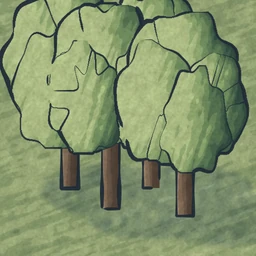
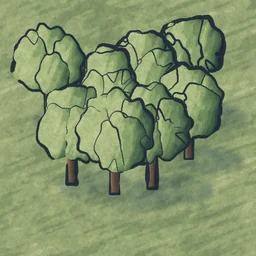
feat(hex-art): горы и пики из Photoshop, пики и вековой лес внутри гекса
Решение владельца 2026-10-22: «используй такие гексы, потом я сделаю
новые свои». Горы, высокие горы и значки «Живой хребет» — картины,
написанные в Photoshop владельца его кистями Kyle по подмалёвку
«гребень и отроги» (tools/HexArt/painted, photoshop_build.py);
остальные плитки — генератор tools/HexArt. Вырезов гор владельца нет:
owner.py удалён, сборка не читает %LOCALAPPDATA%\Map\Assets\originals.

Высокие горы и вековой лес больше не нависают над рядом позади
(Overhang 0, группа «Местность»); нависает только вулкан. Тесты
«высокий тайл нависает» и «перед деревней» переведены на вулкан.
HexArt пересобран (125 файлов), средние цвета обновлены.

diff --git a/tools/HexArt/build.py b/tools/HexArt/build.py
@@ -5,6 +5,10 @@
 Needs numpy, scipy and pillow (a `pip install --target` folder on PYTHONPATH is enough).
 Pictures: <tile>_<variant>.webp (256 x 256 box), <tile>_<variant>_tall.webp (box with 128 px of
 room above, standing parts only), <tile>_ground.webp, icon_<Kind>_<variant>.webp (128 x 128).
+
+The mountains and the peaks were painted in Photoshop with the owner's brushes from the same
+underdrawing (photoshop_build.py, 2026-10-22); their 1024 px paintings are kept in painted/ and
+only reduced here. No picture of the owner's own art is used.
 """
 
 from __future__ import annotations
@@ -14,19 +18,61 @@ import sys
 import time
 
 import numpy as np
-from PIL import Image
+from PIL import Image, ImageFilter
 from scipy import ndimage as ndi
 
-import owner
 import tiles
 from paint import INK, finish, paint
 
 QUALITY = 90
 FEATURE_ZOOM = 1.35
+HERE = os.path.dirname(os.path.abspath(__file__))
+PAINTED = os.path.join(HERE, "painted")
+# Photoshop paintings per tile, and the ones the living-ridge icons are cut from.
+PAINTED_TILES = {"mountains": 3, "peaks": 3}
+ICON_SOURCES = [("peaks", 0), ("mountains", 0), ("peaks", 2), ("mountains", 2)]
 
 
 def save(img: Image.Image, path: str):
     img.save(path, "WEBP", quality=QUALITY, method=6, alpha_quality=100)
+
+
+def painted(name: str, v: int) -> Image.Image | None:
+    path = os.path.join(PAINTED, f"{name}_{v}.webp")
+    return Image.open(path).convert("RGBA") if os.path.exists(path) else None
+
+
+def painted_icon(name: str, v: int) -> Image.Image:
+    """A living-ridge icon cut from a painted mountain: the mountain's own shape (from the same
+    underdrawing at the painting's scale) with its pen line, standing on (128, 244) of the box."""
+    art = painted(name, v)
+    old = tiles.SCALE
+    tiles.SCALE = art.width // tiles.BOX
+    try:
+        cv = tiles.paint_terrain(name, v)
+    finally:
+        tiles.SCALE = old
+    body = ndi.binary_fill_holes(cv.body)
+    body = ndi.binary_dilation(body, iterations=3 * art.width // 512)
+    alpha = Image.fromarray((body * 255).astype(np.uint8)).filter(ImageFilter.GaussianBlur(1.2))
+    art.putalpha(alpha)
+    sprite = art.crop(art.getbbox())
+    w = 236
+    h = round(w * sprite.height / sprite.width)
+    if h > 232:
+        h, w = 232, round(232 * sprite.width / sprite.height)
+    sprite = sprite.resize((w, h), Image.LANCZOS)
+    box = Image.new("RGBA", (256, 256), (0, 0, 0, 0))
+    # a soft cool shadow pool to the south-east of the foot
+    yy, xx = np.mgrid[0:256, 0:256].astype(np.float32)
+    d = ((xx - 150) / (w * 0.55)) ** 2 + ((yy - 242) / 9) ** 2
+    pool = np.clip(1 - d, 0, 1) ** 1.5 * 0.3
+    shadow = np.zeros((256, 256, 4), np.uint8)
+    shadow[..., 0], shadow[..., 1], shadow[..., 2] = 0x41, 0x58, 0x73
+    shadow[..., 3] = (pool * 255).astype(np.uint8)
+    box.alpha_composite(Image.fromarray(shadow, "RGBA"))
+    box.alpha_composite(sprite, (128 - w // 2, 246 - h))
+    return box.resize((128, 128), Image.LANCZOS)
 
 
 def build(out: str, only: set[str]):
@@ -38,41 +84,34 @@ def build(out: str, only: set[str]):
         if only and name not in only:
             continue
         tall = name in tiles.TALL
-        if name in owner.TILE and owner.available():
-            # the owner's own mountains on a painted snow field (owner.py)
-            g = tiles.paint_terrain(name, 0, ground_only=True)
-            ground = paint(g, S)
-            ground[..., 3] = 1.0
-            ground = finish(ground, (tiles.BOX, tiles.BOX))
+        if name in PAINTED_TILES and painted(name, 0) is not None:
             for v in range(count):
-                tile, over = owner.terrain(name, v, ground, tiles.TALL_ROOM)
-                save(tile, os.path.join(out, f"{name}_{v}.webp"))
-                if over is not None:
-                    save(over, os.path.join(out, f"{name}_{v}_tall.webp"))
-                print(f"{name} {v} (owner)", flush=True)
-            save(ground, os.path.join(out, f"{name}_ground.webp"))
-            continue
-        for v in range(count):
-            t0 = time.time()
-            cv = tiles.paint_terrain(name, v, tall=tall)
-            rgba = paint(cv, S)
-            if tall:
-                tile = rgba[room:room + box]
-                standing = (cv.mat > 0) & ~cv.ground
-                # the pen line round a standing shape lies half on the ground: keep the inked
-                # pixels next to it, not the ground itself
-                near = ndi.binary_dilation(standing, iterations=int(3 * S))
-                inked = np.linalg.norm(rgba[..., :3] - INK, axis=-1) < 0.3
-                over = rgba.copy()
-                over[..., 3] *= standing | (near & inked)
-                # keep the hex part of the overlay only above the hex middle (the code draws that part again)
-                save(finish(over, (tiles.BOX, tiles.BOX + tiles.TALL_ROOM)), os.path.join(out, f"{name}_{v}_tall.webp"))
-            else:
-                tile = rgba
-            tile = tile.copy()
-            tile[..., 3] = 1.0
-            save(finish(tile, (tiles.BOX, tiles.BOX)), os.path.join(out, f"{name}_{v}.webp"))
-            print(f"{name} {v} {time.time() - t0:.1f}s", flush=True)
+                art = painted(name, v)
+                art = art.resize((tiles.BOX, tiles.BOX), Image.LANCZOS)
+                art.putalpha(255)
+                save(art, os.path.join(out, f"{name}_{v}.webp"))
+                print(f"{name} {v} (painted in Photoshop)", flush=True)
+        else:
+            for v in range(count):
+                t0 = time.time()
+                cv = tiles.paint_terrain(name, v, tall=tall)
+                rgba = paint(cv, S)
+                if tall:
+                    tile = rgba[room:room + box]
+                    standing = (cv.mat > 0) & ~cv.ground
+                    # the pen line round a standing shape lies half on the ground: keep the inked
+                    # pixels next to it, not the ground itself
+                    near = ndi.binary_dilation(standing, iterations=int(3 * S))
+                    inked = np.linalg.norm(rgba[..., :3] - INK, axis=-1) < 0.3
+                    over = rgba.copy()
+                    over[..., 3] *= standing | (near & inked)
+                    save(finish(over, (tiles.BOX, tiles.BOX + tiles.TALL_ROOM)), os.path.join(out, f"{name}_{v}_tall.webp"))
+                else:
+                    tile = rgba
+                tile = tile.copy()
+                tile[..., 3] = 1.0
+                save(finish(tile, (tiles.BOX, tiles.BOX)), os.path.join(out, f"{name}_{v}.webp"))
+                print(f"{name} {v} {time.time() - t0:.1f}s", flush=True)
         cv = tiles.paint_terrain(name, 0, ground_only=True)
         rgba = paint(cv, S)
         rgba[..., 3] = 1.0
@@ -92,8 +131,9 @@ def build(out: str, only: set[str]):
         if only and ("icon_" + kind) not in only and "icons" not in only:
             continue
         for v in range(tiles.ICON_VARIANTS):
-            if kind == "Mountains" and owner.available():
-                save(owner.icon(v), os.path.join(out, f"icon_{kind}_{v}.webp"))
+            if kind == "Mountains" and painted(*ICON_SOURCES[v]) is not None:
+                save(painted_icon(*ICON_SOURCES[v]), os.path.join(out, f"icon_{kind}_{v}.webp"))
+                print(f"icon {kind} {v} (painted)", flush=True)
                 continue
             cv = tiles.paint_icon(kind, v)
             save(finish(paint(cv, S, pen=5.0), (128, 128)), os.path.join(out, f"icon_{kind}_{v}.webp"))

diff --git a/src/Map.Rendering/HexTileArt.cs b/src/Map.Rendering/HexTileArt.cs
@@ -81,7 +81,7 @@ public static class HexStarterTiles
         new(Prefix + "pines", "Хвойный лес", "Местность", HexPaintTarget.Terrain, 3, new SKColor(0x80, 0x8E, 0x6D)) { Priority = 61, TravelCost = 2, Rotatable = false },
         new(Prefix + "jungle", "Джунгли", "Местность", HexPaintTarget.Terrain, 3, new SKColor(0x63, 0x7A, 0x56)) { Priority = 62, TravelCost = 3, Rotatable = false },
         new(Prefix + "hills", "Холмы", "Местность", HexPaintTarget.Terrain, 3, new SKColor(0xA1, 0xAD, 0x7E)) { Priority = 70, TravelCost = 2, Rotatable = false },
-        new(Prefix + "mountains", "Горы", "Местность", HexPaintTarget.Terrain, 3, new SKColor(0xC4, 0xD1, 0xD9)) { Priority = 80, TravelCost = 3, Rotatable = false },
+        new(Prefix + "mountains", "Горы", "Местность", HexPaintTarget.Terrain, 3, new SKColor(0xCE, 0xDA, 0xE2)) { Priority = 80, TravelCost = 3, Rotatable = false },
         new(Prefix + "desert", "Пустыня", "Местность", HexPaintTarget.Terrain, 3, new SKColor(0xD6, 0xC4, 0x9D)) { Priority = 30, TravelCost = 1.5 },
         new(Prefix + "swamp", "Болото", "Местность", HexPaintTarget.Terrain, 3, new SKColor(0x83, 0x8E, 0x78)) { Priority = 20, TravelCost = 3 },
         new(Prefix + "snow", "Снега", "Местность", HexPaintTarget.Terrain, 3, new SKColor(0xE0, 0xE9, 0xED)) { Priority = 75, TravelCost = 2 },
@@ -96,15 +96,16 @@ public static class HexStarterTiles
         new(Prefix + "shallows", "Мелководье", "Вода", HexPaintTarget.Terrain, 3, new SKColor(0xB5, 0xCD, 0xD3)) { Priority = 10, IsWater = true, TravelCost = 4 },
         new(Prefix + "sea", "Море", "Вода", HexPaintTarget.Terrain, 3, new SKColor(0x89, 0xA4, 0xB8)) { Priority = 0, IsWater = true, TravelCost = null },
         new(Prefix + "lake", "Озеро", "Вода", HexPaintTarget.Terrain, 3, new SKColor(0x9C, 0xB4, 0xC5)) { Priority = 5, IsWater = true, TravelCost = null },
-        new(Prefix + "peaks", "Высокие горы", Tall, HexPaintTarget.Terrain, 3, new SKColor(0x91, 0xA3, 0xB2))
+        // The owner (2026-10-22): peaks and the old forest were too big for a hex map; they now
+        // stay inside their hex like the mountains and the forest (no overhang).
+        new(Prefix + "peaks", "Высокие горы", "Местность", HexPaintTarget.Terrain, 3, new SKColor(0xC7, 0xD4, 0xDC))
         {
-            Priority = 85, TravelCost = 4, Overhang = 0.62, Rotatable = false,
-            Hint = "Высокий тайл: вершины нависают над рядом позади (2.5D).",
+            Priority = 85, TravelCost = 4, Rotatable = false,
+            Hint = "Высокие острые вершины; рисуются внутри своего гекса.",
         },
-        new(Prefix + "old-forest", "Вековой лес", Tall, HexPaintTarget.Terrain, 3, new SKColor(0x7D, 0x8E, 0x67))
+        new(Prefix + "old-forest", "Вековой лес", "Местность", HexPaintTarget.Terrain, 3, new SKColor(0x7D, 0x8F, 0x68))
         {
-            Priority = 63, TravelCost = 2.5, Overhang = 0.42, Rotatable = false,
-            Hint = "Высокий тайл: кроны нависают над рядом позади.",
+            Priority = 63, TravelCost = 2.5, Rotatable = false,
         },
         new(Prefix + "volcano", "Вулкан", Tall, HexPaintTarget.Terrain, 2, new SKColor(0x6D, 0x62, 0x60))
         {

diff --git a/tests/Map.Rendering.Tests/HexWorkshopRenderingTests.cs b/tests/Map.Rendering.Tests/HexWorkshopRenderingTests.cs
@@ -176,10 +176,11 @@ public sealed class HexWorkshopRenderingTests
         var layout = layer.Board.Layout;
         var behind = layout.FromOffset(new HexOffset(1, 0));
         var front = layout.FromOffset(new HexOffset(1, 1));
-        var cells = new Dictionary<HexCoord, HexCell?> { [behind] = HexCell.Of("starter/snow"), [front] = HexCell.Of("starter/peaks") };
+        var cells = new Dictionary<HexCoord, HexCell?> { [behind] = HexCell.Of("starter/snow"), [front] = HexCell.Of("starter/volcano") };
         document = HexPaintCommand.Create("Горы", layer, cells)!.Apply(document);
         using var bitmap = Render(document, 1, null);
-        // The upper part of the snow hex behind is covered by the peaks: grey rock, not snow white.
+        // The upper part of the snow hex behind is covered by the volcano (its cone and smoke), not
+        // snow white. Peaks no longer rise over the row behind (the owner, 2026-10-22); the volcano does.
         var (fx, fy) = layout.Center(front);
         var hits = 0;
         for (var dy = 1.0; dy < 1.5; dy += 0.05)
@@ -326,7 +327,7 @@ public sealed class HexWorkshopRenderingTests
     }
 
     [Fact]
-    public void A_peak_in_front_hides_a_village_in_the_row_behind()
+    public void A_volcano_in_front_hides_a_village_in_the_row_behind()
     {
         static (MapDocument, HexLayer) Board(bool village)
         {
@@ -340,7 +341,7 @@ public sealed class HexWorkshopRenderingTests
                 for (var r = 0; r < 6; r++) cells[layout.FromOffset(new HexOffset(c, r))] = HexCell.Of("starter/grass", 0);
             }
 
-            cells[layout.FromOffset(new HexOffset(2, 3))] = HexCell.Of("starter/peaks", 0);
+            cells[layout.FromOffset(new HexOffset(2, 3))] = HexCell.Of("starter/volcano", 0);
             if (village) cells[layout.FromOffset(new HexOffset(2, 2))] = HexCell.Of("starter/grass", 0).WithFeature("starter/village", 0);
             layer = layer with { Board = layer.Board.With(cells) };
             return (document.WithLayer(layer.Id, _ => layer), layer);
@@ -354,7 +355,7 @@ public sealed class HexWorkshopRenderingTests
         using var b = Render(without, scale, null);
         var layout = layer.Board.Layout;
         var peak = layout.FromOffset(new HexOffset(2, 3));
-        var art = HexTileArt.Image("starter/peaks", 0, HexOrientation.Flat)!;
+        var art = HexTileArt.Image("starter/volcano", 0, HexOrientation.Flat)!;
         using var pixels = SKBitmap.FromImage(art);
         var bounds = layout.Bounds(peak);
         var (_, cy) = layout.Center(peak);

diff --git a/tools/HexArt/tiles.py b/tools/HexArt/tiles.py
@@ -759,7 +759,8 @@ TERRAINS = {
     "snow": 3, "canyon": 3, "cliffs": 3, "shallows": 3, "sea": 3, "lake": 3, "peaks": 3, "old-forest": 3, "volcano": 2,
     "live-forest": 3, "live-pines": 3, "live-hills": 3, "live-mountains": 3,
 }
-TALL = {"peaks", "old-forest", "volcano"}
+# Peaks and the old forest stay inside their hex (the owner, 2026-10-22); only the volcano rises over the row behind.
+TALL = {"volcano"}
 FEATURES = {"village": 2, "city": 2, "castle": 2, "port": 2, "camp": 2, "tower": 2, "ruins": 2, "cave": 2, "temple": 2, "mine": 2}
 ICONS = ["Trees", "Pines", "Hills", "Mountains"]
 ICON_VARIANTS = 4
